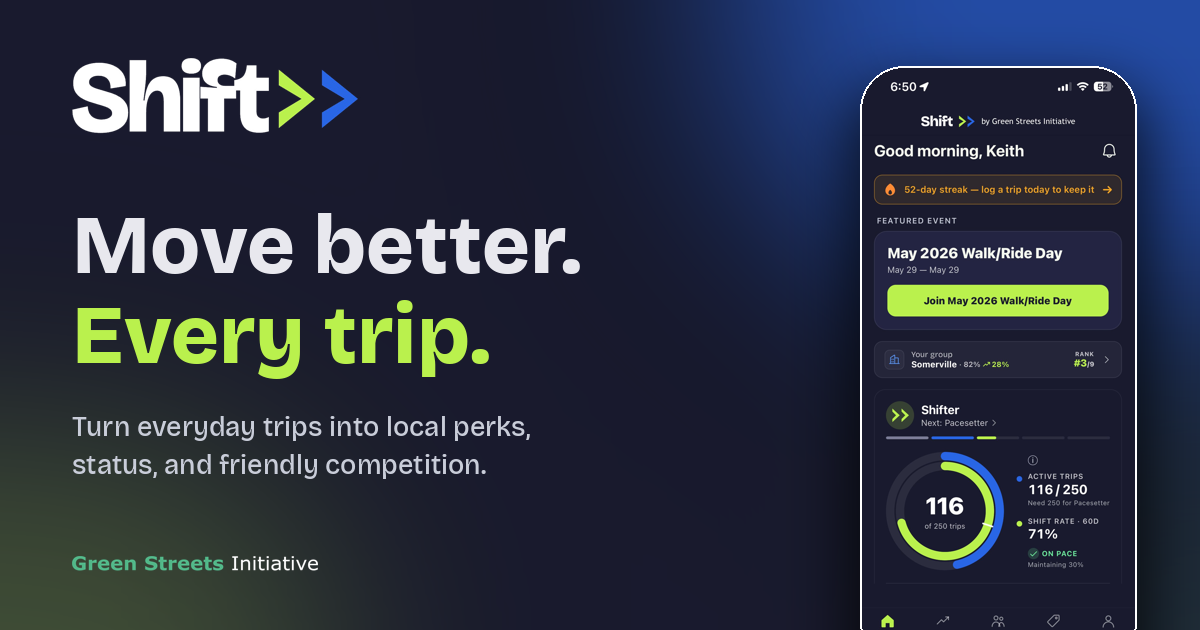
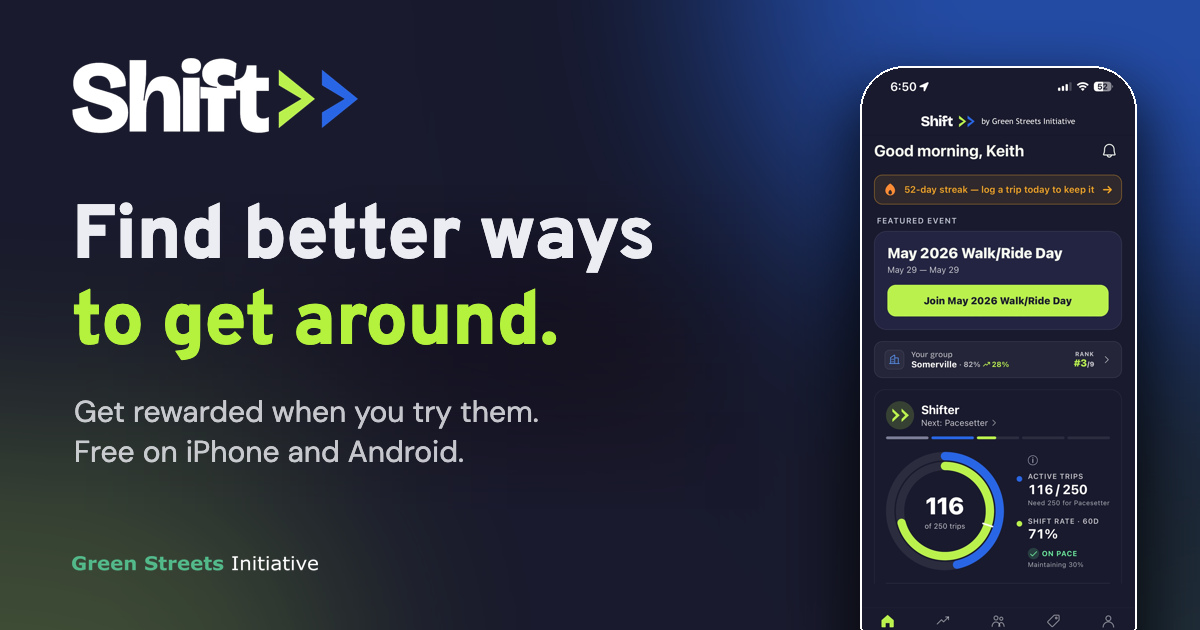
Shift's one line is now 'Find better ways to get around. Get rewarded when you try them.' (Keith 2026-11-04, after the one-line test)
- Guide app strips, all four languages: the 'make more trips and you can unlock
  gift cards' tail is gone (trips don't add up to gift cards); each strip now
  ends with the line.
- T fare guide: its own strip, 'Your T trips count in Shift.' (campaign
  t-trips-count-2026 starts now).
- /shift: headline, lead and page title/description; new share image.
- Invite share image and the Walk/Ride Days page use the line.

Meta test Oct 22-Nov 3: 5.4% vs 3.1% link click rate; same 20 store tappers each.

Changed region(s): [[0.0617, 0.3016, 0.555, 0.6032], [0.0617, 0.6333, 0.4625, 0.754]]

diff --git a/src/components/guides/GuideView.tsx b/src/components/guides/GuideView.tsx
@@ -140,61 +140,72 @@ function modeLabel(mode: string, L: GuideLocale = 'en'): string {
 const appStrip: Record<string, { headline: string; line: string }> = {
   transit: {
     headline: 'Next, see when your bus or train is coming.',
-    line: 'Shift shows live arrivals at the stops near you. Take more trips by transit and you can unlock gift cards from local shops. Free.',
+    line: 'Shift shows live arrivals at the stops near you. Find better ways to get around, and get rewarded when you try them. Free.',
   },
   cycling: {
     headline: 'Find the calm way to ride there.',
-    line: 'Shift maps low-stress bike routes and the nearest Bluebikes. Ride more and you can unlock gift cards from local shops. Free.',
+    line: 'Shift maps low-stress bike routes and the nearest Bluebikes. Find better ways to get around, and get rewarded when you try them. Free.',
   },
   walking: {
     headline: 'Find the easy way there on foot.',
-    line: 'Shift shows what you can reach on foot and the closest bus or train. Walk more and you can unlock gift cards from local shops. Free.',
+    line: 'Shift shows what you can reach on foot and the closest bus or train. Find better ways to get around, and get rewarded when you try them. Free.',
   },
 }
 // Answer pages (seo/answer-pages.md) get a strip that matches the question the
 // page answers. Every claim is something the app does today.
 const appStripBySlug: Record<string, { headline: string; line: string }> = {
+  'how-to-pay-for-the-t': {
+    // Campaign t-trips-count-2026 (docs/programs/marketing/campaigns.json):
+    // started with the one-line pick, Keith 2026-11-04. Baseline Oct 7-Nov 3:
+    // 331 visitors, 3 tapped a store button.
+    headline: 'Your T trips count in Shift.',
+    line: 'Shift counts your T trips on its own and shows when the next bus or train is coming. Find better ways to get around, and get rewarded when you try them. Free.',
+  },
   'boston-traffic': {
     headline: 'See when the next train or bus is coming.',
-    line: 'Shift shows live arrivals at the stops near you and the calmest bike routes, so you can plan around the traffic. Make more trips this way and you can unlock gift cards from local shops. Free.',
+    line: 'Shift shows live arrivals at the stops near you and the calmest bike routes, so you can plan around the traffic. Find better ways to get around, and get rewarded when you try them. Free.',
   },
   'boston-parking-costs': {
     headline: 'Find the station and bike route nearest you.',
-    line: 'Shift shows the closest stations, live arrivals and the Bluebikes docks with bikes right now. Make more trips this way and you can unlock gift cards from local shops. Free.',
+    line: 'Shift shows the closest stations, live arrivals and the Bluebikes docks with bikes right now. Find better ways to get around, and get rewarded when you try them. Free.',
   },
   'keeping-a-car-in-boston': {
     headline: 'See how often you really drive.',
-    line: 'Shift records your trips on its own, so you can count your driving days, and shows the bus, train and bike options near you. Make more trips this way and you can unlock gift cards from local shops. Free.',
+    line: 'Shift records your trips on its own, so you can count your driving days, and shows the bus, train and bike options near you. Find better ways to get around, and get rewarded when you try them. Free.',
   },
   'backup-plans-for-the-t': {
     headline: 'Have your backup ready before you need it.',
-    line: 'Shift shows live bus arrivals and the Bluebikes docks with bikes near you, so you can switch fast when a line is down. Make more trips this way and you can unlock gift cards from local shops. Free.',
+    line: 'Shift shows live bus arrivals and the Bluebikes docks with bikes near you, so you can switch fast when a line is down. Find better ways to get around, and get rewarded when you try them. Free.',
   },
   'getting-around-boston': {
     headline: 'Plan your first trips from a new address.',
-    line: 'Shift shows what you can reach on foot, the closest bus or train and low-stress bike routes. Make more trips this way and you can unlock gift cards from local shops. Free.',
+    line: 'Shift shows what you can reach on foot, the closest bus or train and low-stress bike routes. Find better ways to get around, and get rewarded when you try them. Free.',
   },
 }
 const appStripBySlugEs: Record<string, { headline: string; line: string }> = {
+  'how-to-pay-for-the-t': {
+    headline: 'Tus viajes en la T cuentan en Shift.',
+    line: 'Shift cuenta tus viajes en la T por sí solo y te muestra cuándo llega el próximo autobús o tren. Encuentra mejores formas de moverte y recibe recompensas cuando las pruebes. Gratis.',
+  },
   'boston-traffic': {
     headline: 'Mira cuándo llega el próximo tren o autobús.',
-    line: 'Shift te muestra las llegadas en vivo en las paradas cerca de ti y las rutas en bici más tranquilas, para que planees sin el tráfico. Haz más viajes así y puedes desbloquear tarjetas de regalo de comercios locales. Gratis.',
+    line: 'Shift te muestra las llegadas en vivo en las paradas cerca de ti y las rutas en bici más tranquilas, para que planees sin el tráfico. Encuentra mejores formas de moverte y recibe recompensas cuando las pruebes. Gratis.',
   },
   'boston-parking-costs': {
     headline: 'Encuentra la estación y la ruta en bici más cercanas.',
-    line: 'Shift te muestra las estaciones más cercanas, las llegadas en vivo y las estaciones de Bluebikes con bicis disponibles ahora. Haz más viajes así y puedes desbloquear tarjetas de regalo de comercios locales. Gratis.',
+    line: 'Shift te muestra las estaciones más cercanas, las llegadas en vivo y las estaciones de Bluebikes con bicis disponibles ahora. Encuentra mejores formas de moverte y recibe recompensas cuando las pruebes. Gratis.',
   },
   'keeping-a-car-in-boston': {
     headline: 'Mira cuántas veces manejas de verdad.',
-    line: 'Shift registra tus viajes solo, para que cuentes tus días en auto, y te muestra las opciones de autobús, tren y bici cerca de ti. Haz más viajes así y puedes desbloquear tarjetas de regalo de comercios locales. Gratis.',
+    line: 'Shift registra tus viajes solo, para que cuentes tus días en auto, y te muestra las opciones de autobús, tren y bici cerca de ti. Encuentra mejores formas de moverte y recibe recompensas cuando las pruebes. Gratis.',
   },
   'backup-plans-for-the-t': {
     headline: 'Ten tu plan B listo antes de necesitarlo.',
-    line: 'Shift te muestra las llegadas de autobuses en vivo y las estaciones de Bluebikes con bicis cerca de ti, para que cambies rápido cuando una línea no funciona. Haz más viajes así y puedes desbloquear tarjetas de regalo de comercios locales. Gratis.',
+    line: 'Shift te muestra las llegadas de autobuses en vivo y las estaciones de Bluebikes con bicis cerca de ti, para que cambies rápido cuando una línea no funciona. Encuentra mejores formas de moverte y recibe recompensas cuando las pruebes. Gratis.',
   },
   'getting-around-boston': {
     headline: 'Planea tus primeros viajes desde una dirección nueva.',
-    line: 'Shift te muestra a dónde puedes llegar a pie, el autobús o tren más cercano y rutas en bici tranquilas. Haz más viajes así y puedes desbloquear tarjetas de regalo de comercios locales. Gratis.',
+    line: 'Shift te muestra a dónde puedes llegar a pie, el autobús o tren más cercano y rutas en bici tranquilas. Encuentra mejores formas de moverte y recibe recompensas cuando las pruebes. Gratis.',
   },
 }
 // Our own tools and live offers, placed after the section they serve
@@ -317,63 +328,71 @@ const toolsAfter: Record<string, Record<string, (slug: string, L: GuideLocale) =
 
 const appStripDefault = {
   headline: 'Find the easy way there.',
-  line: 'Shift shows live bus and train arrivals, low-stress bike routes and the nearest Bluebikes. Make more trips this way and you can unlock gift cards from local shops. Free.',
+  line: 'Shift shows live bus and train arrivals, low-stress bike routes and the nearest Bluebikes. Find better ways to get around, and get rewarded when you try them. Free.',
 }
 const appStripBySlugPt: Record<string, { headline: string; line: string }> = {
+  'how-to-pay-for-the-t': {
+    headline: 'Suas viagens na T contam no Shift.',
+    line: 'O Shift conta suas viagens na T sozinho e mostra quando chega o próximo ônibus ou trem. Encontre jeitos melhores de se locomover e seja recompensado quando experimentar. Grátis.',
+  },
   'boston-traffic': {
     headline: 'Veja quando chega o próximo trem ou ônibus.',
-    line: 'O Shift mostra as chegadas ao vivo nas paradas perto de você e as rotas de bicicleta mais tranquilas, para você se planejar sem o trânsito. Faça mais viagens assim e você pode desbloquear vale-presentes de comércios locais. Grátis.',
+    line: 'O Shift mostra as chegadas ao vivo nas paradas perto de você e as rotas de bicicleta mais tranquilas, para você se planejar sem o trânsito. Encontre jeitos melhores de se locomover e seja recompensado quando experimentar. Grátis.',
   },
   'boston-parking-costs': {
     headline: 'Encontre a estação e a rota de bicicleta mais perto de você.',
-    line: 'O Shift mostra as estações mais próximas, as chegadas ao vivo e as estações da Bluebikes com bicicletas disponíveis agora. Faça mais viagens assim e você pode desbloquear vale-presentes de comércios locais. Grátis.',
+    line: 'O Shift mostra as estações mais próximas, as chegadas ao vivo e as estações da Bluebikes com bicicletas disponíveis agora. Encontre jeitos melhores de se locomover e seja recompensado quando experimentar. Grátis.',
   },
   'keeping-a-car-in-boston': {
     headline: 'Veja quantas vezes você realmente dirige.',
-    line: 'O Shift registra suas viagens sozinho, para você contar seus dias de carro, e mostra as opções de ônibus, trem e bicicleta perto de você. Faça mais viagens assim e você pode desbloquear vale-presentes de comércios locais. Grátis.',
+    line: 'O Shift registra suas viagens sozinho, para você contar seus dias de carro, e mostra as opções de ônibus, trem e bicicleta perto de você. Encontre jeitos melhores de se locomover e seja recompensado quando experimentar. Grátis.',
   },
   'backup-plans-for-the-t': {
     headline: 'Tenha seu plano B pronto antes de precisar.',
-    line: 'O Shift mostra as chegadas de ônibus ao vivo e as estações da Bluebikes com bicicletas perto de você, para você trocar rápido quando uma linha para. Faça mais viagens assim e você pode desbloquear vale-presentes de comércios locais. Grátis.',
+    line: 'O Shift mostra as chegadas de ônibus ao vivo e as estações da Bluebikes com bicicletas perto de você, para você trocar rápido quando uma linha para. Encontre jeitos melhores de se locomover e seja recompensado quando experimentar. Grátis.',
   },
   'getting-around-boston': {
     headline: 'Planeje suas primeiras viagens a partir de um endereço novo.',
-    line: 'O Shift mostra aonde você chega a pé, o ônibus ou trem mais próximo e rotas de bicicleta tranquilas. Faça mais viagens assim e você pode desbloquear vale-presentes de comércios locais. Grátis.',
+    line: 'O Shift mostra aonde você chega a pé, o ônibus ou trem mais próximo e rotas de bicicleta tranquilas. Encontre jeitos melhores de se locomover e seja recompensado quando experimentar. Grátis.',
   },
 }
 const appStripBySlugZh: Record<string, { headline: string; line: string }> = {
+  'how-to-pay-for-the-t': {
+    headline: '你乘坐 T 的行程会记入 Shift。',
+    line: 'Shift 会自动记录你乘坐 T 的行程，并显示下一班公交车或列车什么时候到。找到更好的出行方式，尝试时还能获得奖励。免费。',
+  },
   'boston-traffic': {
     headline: '看看下一班列车或公交车什么时候到。',
-    line: 'Shift 显示你附近站点的实时到站信息和最轻松的骑行路线，帮你避开拥堵来安排出行。这样出行的次数多了，还能解锁本地商家的礼品卡。免费。',
+    line: 'Shift 显示你附近站点的实时到站信息和最轻松的骑行路线，帮你避开拥堵来安排出行。找到更好的出行方式，尝试时还能获得奖励。免费。',
   },
   'boston-parking-costs': {
     headline: '找到离你最近的车站和骑行路线。',
-    line: 'Shift 显示最近的车站、实时到站信息，以及现在有车可借的 Bluebikes 站点。这样出行的次数多了，还能解锁本地商家的礼品卡。免费。',
+    line: 'Shift 显示最近的车站、实时到站信息，以及现在有车可借的 Bluebikes 站点。找到更好的出行方式，尝试时还能获得奖励。免费。',
   },
   'keeping-a-car-in-boston': {
     headline: '看看你到底多常开车。',
-    line: 'Shift 会自动记录你的行程，帮你算出开车的天数，并显示你附近的公交车、列车和骑行选择。这样出行的次数多了，还能解锁本地商家的礼品卡。免费。',
+    line: 'Shift 会自动记录你的行程，帮你算出开车的天数，并显示你附近的公交车、列车和骑行选择。找到更好的出行方式，尝试时还能获得奖励。免费。',
   },
   'backup-plans-for-the-t': {
     headline: '提前准备好你的备用方案。',
-    line: 'Shift 显示你附近的公交车实时到站信息和有车可借的 Bluebikes 站点，线路停运时你能马上换方式。这样出行的次数多了，还能解锁本地商家的礼品卡。免费。',
+    line: 'Shift 显示你附近的公交车实时到站信息和有车可借的 Bluebikes 站点，线路停运时你能马上换方式。找到更好的出行方式，尝试时还能获得奖励。免费。',
   },
   'getting-around-boston': {
     headline: '从新住址规划你的头几次出行。',
-    line: 'Shift 显示步行能到哪里、最近的公交车或列车，以及轻松的骑行路线。这样出行的次数多了，还能解锁本地商家的礼品卡。免费。',
+    line: 'Shift 显示步行能到哪里、最近的公交车或列车，以及轻松的骑行路线。找到更好的出行方式，尝试时还能获得奖励。免费。',
   },
 }
 const appStripDefaultZh = {
   headline: '找到最轻松的出行方式。',
-  line: 'Shift 显示公交车和列车的实时到站信息、轻松的骑行路线和最近的 Bluebikes。这样出行的次数多了，还能解锁本地商家的礼品卡。免费。',
+  line: 'Shift 显示公交车和列车的实时到站信息、轻松的骑行路线和最近的 Bluebikes。找到更好的出行方式，尝试时还能获得奖励。免费。',
 }
 const appStripDefaultPt = {
   headline: 'Encontre o jeito fácil de chegar.',
-  line: 'O Shift mostra as chegadas de ônibus e trens ao vivo, rotas de bicicleta tranquilas e as Bluebikes mais próximas. Faça mais viagens assim e você pode desbloquear vale-presentes de comércios locais. Grátis.',
+  line: 'O Shift mostra as chegadas de ônibus e trens ao vivo, rotas de bicicleta tranquilas e as Bluebikes mais próximas. Encontre jeitos melhores de se locomover e seja recompensado quando experimentar. Grátis.',
 }
 const appStripDefaultEs = {
   headline: 'Encuentra la forma fácil de llegar.',
-  line: 'Shift te muestra las llegadas de autobuses y trenes en vivo, rutas en bici tranquilas y las Bluebikes más cercanas. Haz más viajes así y puedes desbloquear tarjetas de regalo de comercios locales. Gratis.',
+  line: 'Shift te muestra las llegadas de autobuses y trenes en vivo, rutas en bici tranquilas y las Bluebikes más cercanas. Encuentra mejores formas de moverte y recibe recompensas cuando las pruebes. Gratis.',
 }
 
 // Printable one-page sheets, offered right under the app strip. A download

diff --git a/src/app/shift/page.tsx b/src/app/shift/page.tsx
@@ -23,22 +23,22 @@ const ANDROID_URL = process.env.NEXT_PUBLIC_ANDROID_URL || ''
 const IS_LIVE = !!(IOS_URL && ANDROID_URL)
 
 export const metadata: Metadata = {
-  title: 'Shift — Move better. Every trip. | Green Streets Initiative',
-  description: 'Turn everyday trips into local perks, status, and friendly competition.',
+  title: 'Shift — Find better ways to get around | Green Streets Initiative',
+  description: 'Find better ways to get around Massachusetts, and get rewarded when you try them. A free app from Green Streets Initiative.',
   alternates: { canonical: 'https://www.gogreenstreets.org/shift' },
   openGraph: {
-    title: 'Shift — Move better. Every trip.',
-    description: 'Turn everyday trips into local perks, status, and friendly competition.',
+    title: 'Shift — Find better ways to get around',
+    description: 'Find better ways to get around Massachusetts, and get rewarded when you try them. A free app from Green Streets Initiative.',
     url: 'https://www.gogreenstreets.org/shift',
     siteName: 'Green Streets Initiative',
-    images: [{ url: '/og/shift-og.png', width: 1200, height: 630, alt: 'Shift by Green Streets Initiative — Move better. Every trip.' }],
+    images: [{ url: '/og/shift-og.png', width: 1200, height: 630, alt: 'Shift by Green Streets Initiative — Find better ways to get around.' }],
     locale: 'en_US',
     type: 'website',
   },
   twitter: {
     card: 'summary_large_image',
-    title: 'Shift — Move better. Every trip.',
-    description: 'Turn everyday trips into local perks, status, and friendly competition.',
+    title: 'Shift — Find better ways to get around',
+    description: 'Find better ways to get around Massachusetts, and get rewarded when you try them. A free app from Green Streets Initiative.',
     images: ['/og/shift-og.png'],
   },
 }
@@ -79,11 +79,11 @@ export default function ShiftPage() {
                 {CHEV} The Shift app &middot; now on iOS &amp; Android
               </span>
               <h1 className="mt-4 font-serif text-[clamp(44px,7.2vw,86px)] font-normal leading-[1.04] text-navy">
-                Move better.<br />
-                <em className="text-green-deep">Every trip.</em>
+                Find better ways<br />
+                <em className="text-green-deep">to get around.</em>
               </h1>
               <p className="mt-5 max-w-[46ch] text-[clamp(18px,1.6vw,21px)] leading-[1.6] text-navy">
-                Shift helps you make more of your trips on foot, by bike, and on transit, and turns each one into status, streaks, local perks, and a little friendly competition with your neighborhood.
+                Get rewarded when you try them. Shift shows when the next bus or train is coming, where the nearest bike share is and the calm way to ride, and it counts your trips on its own.
               </p>
 
               {IS_LIVE ? (

diff --git a/src/app/programs/page.tsx b/src/app/programs/page.tsx
@@ -277,7 +277,7 @@ export default function ProgramsPage() {
                 Just want to participate?
               </h3>
               <p className="mb-6 text-[0.9375rem] leading-[1.6] text-ink-soft">
-                Walk/Ride Days are open to everyone, every month. Download Shift to track your trips, earn rewards, and join your neighborhood leaderboard.
+                Walk/Ride Days are open to everyone, every month. Download Shift to find better ways to get around, get rewarded when you try them, and join your neighborhood leaderboard.
               </p>
               <Link
                 href="/shift"

diff --git a/src/app/api/og/share/[code]/route.tsx b/src/app/api/og/share/[code]/route.tsx
@@ -254,7 +254,7 @@ function InviteCard({ firstName, referralCode }: { firstName: string; referralCo
           Join me on Shift!
         </span>
         <span style={{ display: 'flex', color: 'rgba(255,255,255,0.85)', fontSize: 30, fontWeight: 400, marginTop: 20, textAlign: 'center', justifyContent: 'center', maxWidth: 1072 }}>
-          Track your walks, bike rides, and transit trips — and get rewarded for it.
+          Find better ways to get around. Get rewarded when you try them.
         </span>
 
         <div
